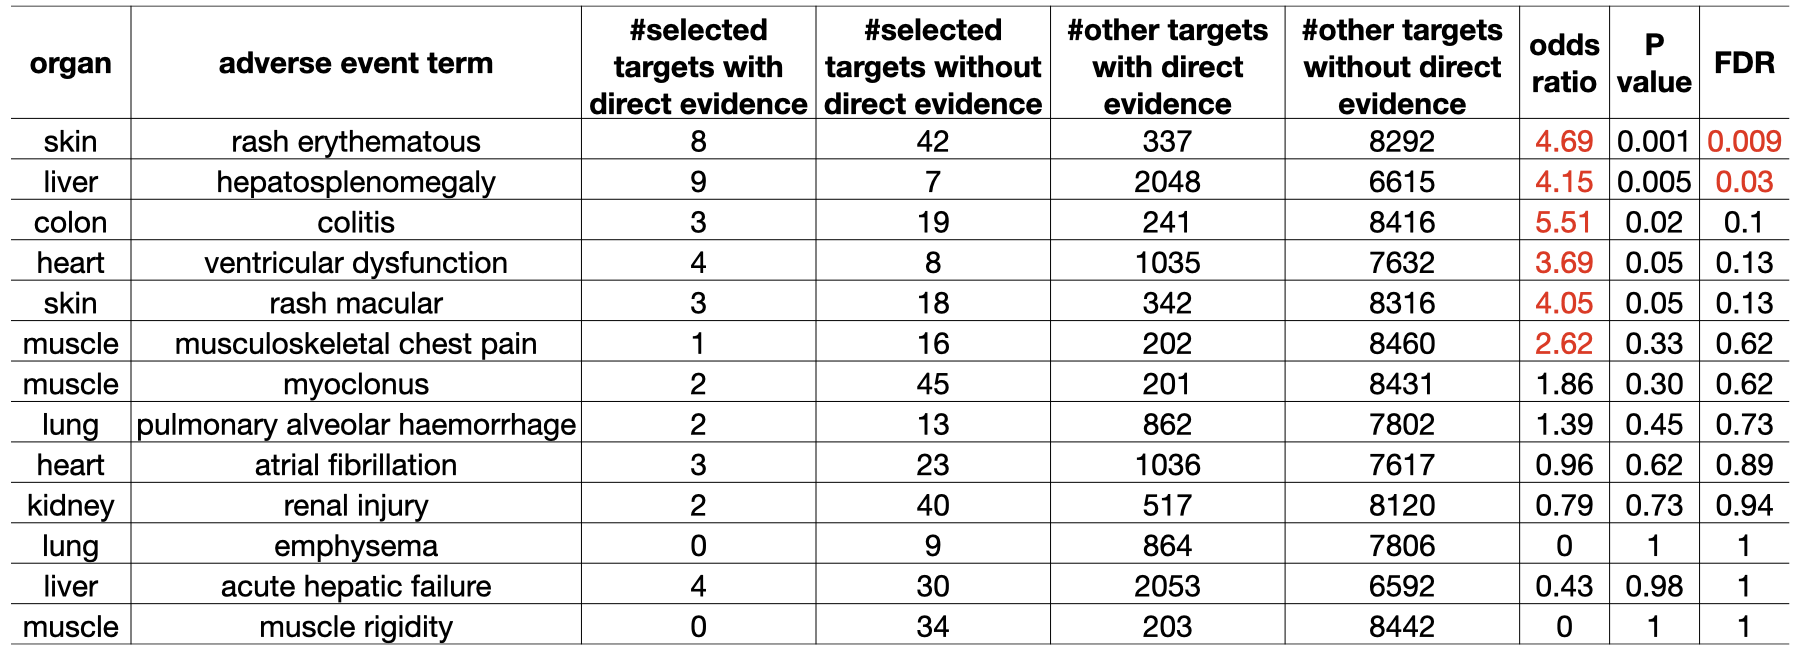
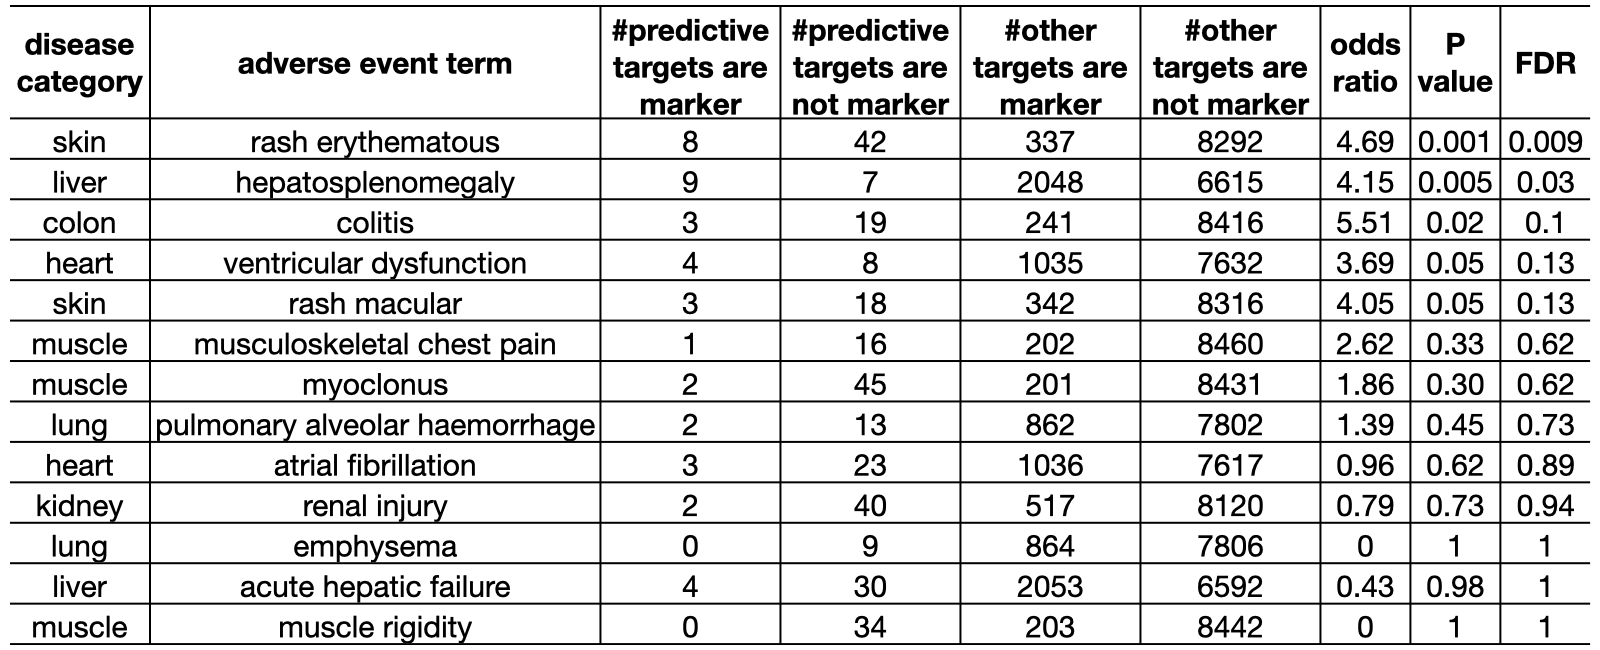
Small modifications to expression plot and enrichment table

Changed region(s): [[0.0, 0.0, 1.0, 1.0]]

diff --git a/src/visualize_expression_comparison.py b/src/visualize_expression_comparison.py
@@ -102,7 +102,7 @@ ax.set(ylabel = 'Expression')
 # add legends showing the color patches of all tissues 
 plt.legend(handles = patchList, loc = 'upper left', frameon = False, ncol = 5)
 plt.plot(-0.3, 2.2, marker = '*', color = 'r', linestyle = 'None', markersize = 15)
-plt.text(-0.1, 2.15, 'Selected genes (left) > All genes (right), FDR<0.05')
+plt.text(-0.1, 2.15, 'Predictive targets (left) > background genes (right), FDR<0.05')
 
 ## 5. Save boxplot
 plt.tight_layout()
